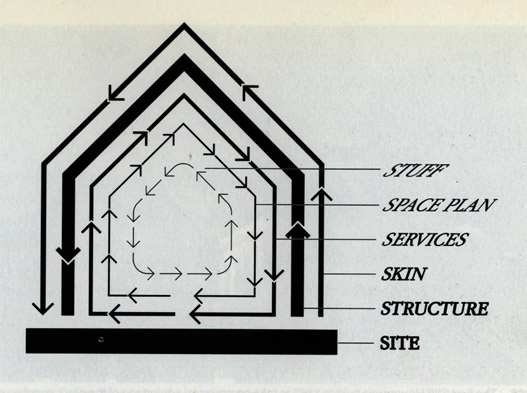
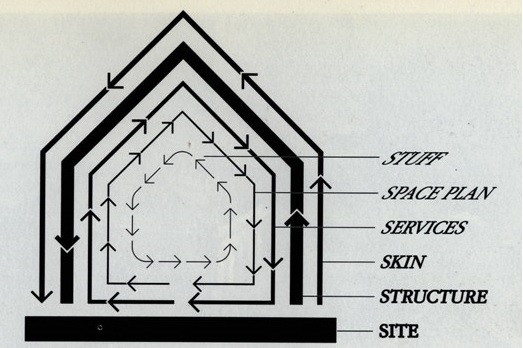
references to footnotes

Changed region(s): [[0.0306, 0.2586, 0.9484, 1.0], [0.1836, 0.0287, 0.5201, 0.2874], [0.3671, 0.2874, 0.3977, 0.3161]]

diff --git a/domain.tex b/domain.tex
@@ -14,7 +14,7 @@ Here Brand presents a framework, in which he define six S's as a ground for unde
 
 \begin{figure}[h]
 	\centering
-  		\includegraphics[width=3in]{figures/brand-diagram}
+  		\includegraphics[width=3.5in]{figures/brand-diagram}
 	\caption{The different layers of change \citep[chapter 2]{brand1995buildings}}
    \label{brand-diagram}
 \end{figure}
@@ -42,16 +42,16 @@ So with the help of computers and new materials we want to explore how we can ac
 We want to explore how physical interfaces can be created on demand in an ad hoc manner, to better cope with the changes in the buildings space plan and on the level of stuff, and better accommodate the changing needs of its inhabitants.
 As touched upon in chapter~\ref{ch:ui} this does somewhat challenge the traditional view of physical interfaces as they are generally considered static and permanent.
 \todo{bedre afrunding til smart homes}
-\todo{maaske til ad hoc afsnit: The idea is to let the interface exist when it is needed and then let it slowly perish when it is no longer used, either manually, over time, by natural forces or based on sensory data.}
+\todo{maaske til ad hoc afsnit: One part of the idea is to let the interface exist when it is needed and then let it slowly perish when it is no longer used, either manually, over time, by natural forces or based on sensory data.}
 
 \section{Smart homes or home that make us smart}
 The idea of adding computer systems into the domestic environment is not a new one.
 Ever since the emergence of electricity into the households, electrical appliances has been a part of the domestic setting.
 And along with the increasingly more advanced appliances being developed, the dream and vision of even more sophisticated systems have continuously evolved
 
-An early visual example of the fascination of `smart homes' is seen in the General Motors commercial film \emph{Design for Dreaming} from 1956 \citep{designfordreaming,designfordreamingWIKIPEDIA}, where the \emph{Kitchen of the Future} is presented \citep{homeofthefutureWIKIPEDIA}.
+An early visual example of the fascination of `smart homes' is seen in the General Motors commercial film \emph{Design for Dreaming}\footnote{http://en.wikipedia.org/wiki/Design\_for\_Dreaming} from 1956 \citep{designfordreaming}, where the \emph{Home of the Future}\footnote{http://en.wikipedia.org/wiki/Home\_of\_the\_future} is presented.
 Here we see a remote control of the different kitchen appliances, a (computer)screen that can show the final result of the recipe it is given, and a seemingly context-aware moving table.
-Domestic technology appears even earlier where in the 1915-20, with the advent of electricity in common homes, electrically powered machines such as vacuum cleaners and refrigerators providing the `seedbed', as Frances Aldrich puts it, for the emergence for the smart home \citep{aldrich2003smart}.
+Domestic technology appears even earlier where in the 1915-20, with the advent of electricity in common homes, electrically powered machines such as vacuum cleaners and refrigerators providing the `seedbed', as \citet{aldrich2003smart} puts it, for the emergence of the smart home.
 
 In recent years, especially since Mark Weiser's vision of ubiquitous computing \citep{weiser1991computer}, a lot of the research in the domestic realm has focused on the idea of a \emph{home that is smart} where the goal is to use computers to make the home \emph{intelligent} \citep{taylor2007homes}.
 \citet{aldrich2003smart} defines smart homes as:
@@ -59,7 +59,7 @@ In recent years, especially since Mark Weiser's vision of ubiquitous computing \
 \begin{quotation}
 \emph{A ``smart home'' can be defined as a residence equipped with computing and information technology which anticipates and responds to the needs of the occupants, working to promote their comfort, convenience, security and entertainment through the management of technology within the home and connections to the world beyond.}
 \end{quotation}
-Aldrich sees this definition as the acme of domestic technology as we can envision it today putting it somewhere in between reality and fantasy.
+\citeauthor{aldrich2003smart} sees this definition as the acme of domestic technology as we can envision it today putting it somewhere in between reality and fantasy.
 \todo{mere her}
 
 The domestic setting differs a lot from the traditional office setting where most research on ubiquitous computing has been conducted, and is in some ways even more complex as people in the domestic setting has a lot more freedom as to how they organize their space and time \cite{meyer2003survey}.

diff --git a/textiletouch/textile_touch.tex b/textiletouch/textile_touch.tex
@@ -58,9 +58,9 @@ Here the SMA allows for actuation in the shutters while retaining the look, feel
 Another example from \citet{coelho2008sprout} is Sprout I/O, see figure~\ref{sofa_interaction:sprout}, where a membrane filled with strands of SMA and felt provides textually rich input and actuated output capabilities.
 By measuring the capacitance between the users hand and the SMA threads touches can be registered, enabling stroke-like interaction, by creating an input matrix that register changes in each of the the individual SMA threads.
 
-We have gotten a lot of inspiration from the various ``Do It Yourself'' (DIY) on-line communities related to e-textile craft and crafts in general, notably KOBAKANT DIY \citep{kobakantWEB} and Instructable \citep{instrucableWEB}.
+We have gotten a lot of inspiration from the various ``Do It Yourself'' (DIY) on-line communities related to e-textile craft and crafts in general, notably KOBAKANT DIY\footnote{http://www.kobakant.at/DIY/} and Instructable\footnote{http://www.instructables.com/}.
 Both sites provides guides, tips, and tricks for materials, construction and techniques and have for us been a good starting point for doing an e-textile project.
-One of our inspirations has been rSkin \citep{rskinplusea,rSsininstructables}, a project by Hannah Perner-Wilson, which attempts to create a `skin' for a robot arm, made out of textiles, that enables the arm to register intensity and location of touches on the whole arm, seen in figure~\ref{rskin}.
+One of our inspirations has been rSkin\footnote{http://www.plusea.at/?p=2255 and http://www.instructables.com/id/rSkin-Open-Source-Robot-Skin/}, a project by Hannah Perner-Wilson, which attempts to create a `skin' for a robot arm, made out of textiles, that enables the arm to register intensity and location of touches on the whole arm, seen in figure~\ref{rskin}.
 
 \begin{figure}[h]
 	\centering
@@ -70,7 +70,7 @@ One of our inspirations has been rSkin \citep{rskinplusea,rSsininstructables}, a
 \end{figure}
 The `skin' is made of stretchy fabric and a 28 rows x 28 columns large pressure sensitive grid is embedded into the fabric using conductive thread.
 The skin is made out of three layers: first a non-conductive layer with 28 rows of conductive thread, then a layer piezoresistive fabric and lastly a non-conductive layer with 28 columns of conductive thread.
-The piezoresistive fabric acts as a pressure sensitive layer as piezoresistive materials decrease their electrical resistivity under mechanical stress \citep{piezoresistiveWIKIPEDIA}.
+The piezoresistive fabric acts as a pressure sensitive layer, as piezoresistive materials decrease their electrical resistivity under mechanical stress\footnote{http://en.wikipedia.org/wiki/Piezoresistive\_effect}.
 This approach to making pressure sensitive grids will be described in further detail in the implementation section as we use it as a starting point for our second prototype iteration.
 
 \subsection{Touch Sensing}

diff --git a/introduction/motivation.tex b/introduction/motivation.tex
@@ -10,7 +10,7 @@ It was later depicted by a nineteenth-century inventor, as seen in figure~\ref{v
 The mechanical duck, which supposedly contained over a thousand parts, could both flap its wings and appeared to have the ability to eat, digest, and defecate grains.
 
 The animation of `things' still amazes today, both in the world of technology, with advancements in robotics, and in the world of crafts where ingenuity and craftsmanship can give rise to fascination.   
-An example of the latter is Theo Jansen's that gives life to new species of animals with his amazing Strandbeests \cite{strandbeestJansen}.  
+An example of the latter is Theo Jansen's that gives life to new species of animals with his amazing Strandbeests\footnote{http://www.strandbeest.com/}.  
 Made mostly from yellow plastic tube and fabric sails, these skeletons traverses the beaches of the Netherlands, living off the wind, adapting to the turnings of the elements, see figure~\ref{strandbeest}.
 
 \begin{figure}[h]

diff --git a/adhoc.tex b/adhoc.tex
@@ -84,7 +84,7 @@ Let's first have a look at some existing products and projects which we have fou
 
 \subsection{Products with ad hoc characteristics}
 Ad hoc characteristics in interfaces are not some novel invention and they an be found in several existing products.
-A simple example would be The Clapper~(figure~\ref{ch:adhoc:theclapper})~\cite{theclapperWIKIPEDIA} from the mid eighties, an electrical switch reacting to sounds in a specific frequency, tuned to claps, to turn a switch on and off respectively.
+A simple example would be The Clapper\footnote{http://en.wikipedia.org/wiki/The\_Clapper} (figure~\ref{ch:adhoc:theclapper}) from the mid eighties, an electrical switch reacting to sounds in a specific frequency, tuned to claps, to turn a switch on and off respectively.
 Here the interface is pervasive in the nearby environment and one interacts with it when needed after which it ``disappears'' again.
 
 \begin{figure}[hb]
